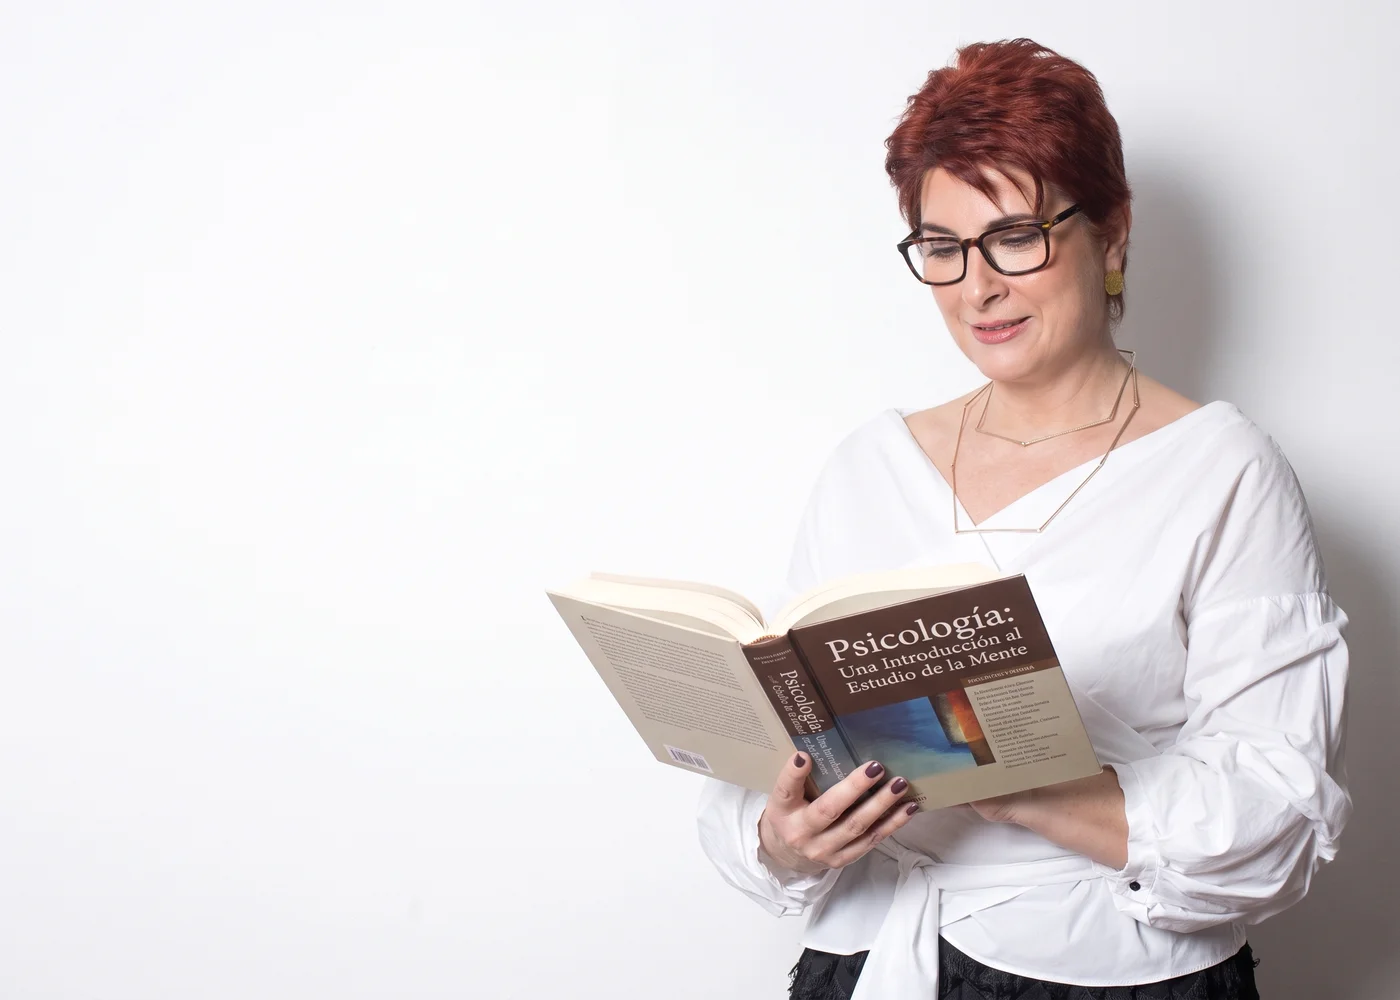
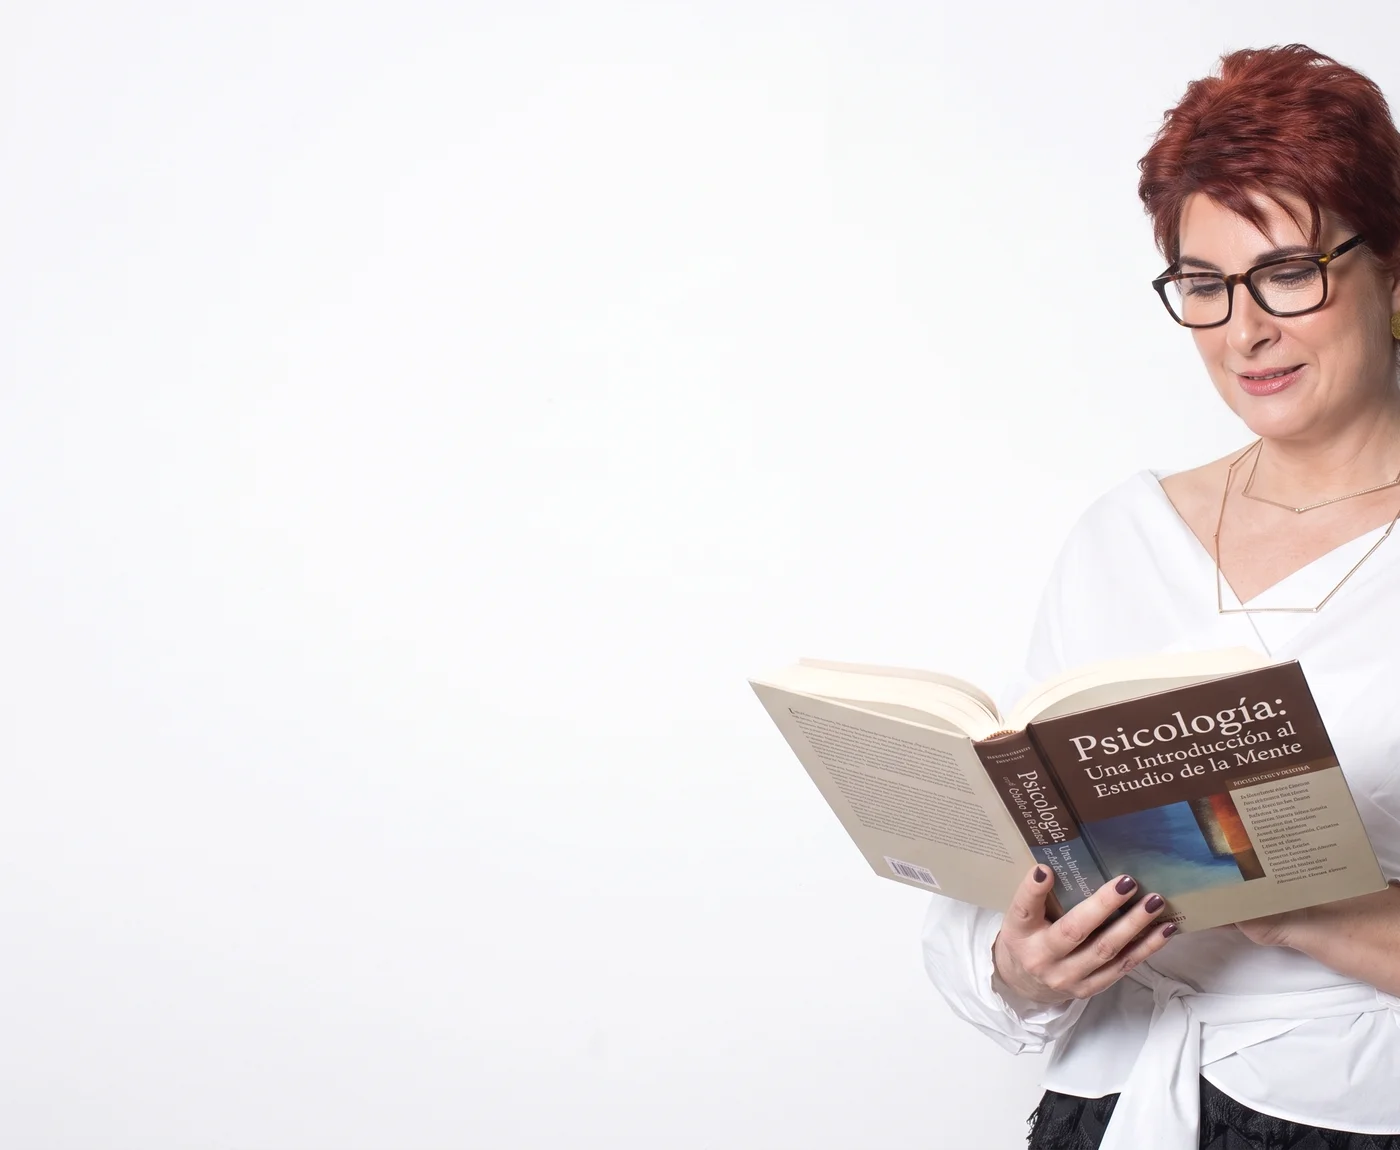
Hero de pantalla completa: foto de Ana ocupa todo el ancho y alto con texto superpuesto en desktop (cabeza siempre visible, recorte solo desde abajo), y foto centrada en la version mobile apilada

diff --git a/src/components/hero.tsx b/src/components/hero.tsx
@@ -6,95 +6,108 @@ import { Button } from "@/components/ui/button";
 import { WhatsAppIcon } from "@/components/icons";
 import { brand, whatsappHref } from "@/lib/site-content";
 
+function HeroCopy({ light = false }: { light?: boolean }) {
+  return (
+    <>
+      <p className="mb-5 text-base font-medium uppercase tracking-[0.18em] text-primary">
+        {brand.pillars.join(" · ")}
+      </p>
+
+      <h1 className="font-heading text-5xl font-medium leading-[1.05] tracking-tight text-foreground sm:text-6xl lg:text-7xl">
+        {brand.heroTitle}
+      </h1>
+
+      <p
+        className={`mt-6 max-w-xl text-xl leading-relaxed sm:text-2xl ${light ? "text-foreground/80" : "text-muted-foreground"}`}
+      >
+        {brand.heroSubtitle}
+      </p>
+
+      <p
+        className={`mt-4 max-w-xl text-lg leading-relaxed ${light ? "text-foreground/70" : "text-muted-foreground"}`}
+      >
+        {brand.heroLead}
+      </p>
+
+      <div className="mt-9 flex flex-col gap-3 sm:flex-row sm:items-center">
+        <Button
+          asChild
+          size="lg"
+          className="rounded-full bg-primary px-7 py-6 text-lg text-primary-foreground transition-[transform,background-color] duration-200 hover:scale-[1.02] hover:bg-primary/90 active:scale-[0.97]"
+        >
+          <a href={whatsappHref} target="_blank" rel="noopener noreferrer">
+            <WhatsAppIcon className="size-5" />
+            Agenda una primera conversación
+          </a>
+        </Button>
+        <Button
+          asChild
+          size="lg"
+          variant="outline"
+          className="rounded-full border-border bg-background/70 px-7 py-6 text-lg backdrop-blur-sm transition-transform duration-200 hover:scale-[1.02] active:scale-[0.97]"
+        >
+          <a href="#servicios">Conoce los servicios</a>
+        </Button>
+      </div>
+    </>
+  );
+}
+
 export function Hero() {
   const reduceMotion = useReducedMotion();
 
   return (
     <section id="top" className="relative overflow-hidden bg-secondary/30">
-      <div
-        aria-hidden
-        className="pointer-events-none absolute inset-0 -z-10"
-        style={{
-          background:
-            "radial-gradient(55% 45% at 88% 15%, color-mix(in oklab, var(--primary) 16%, transparent) 0%, transparent 70%)",
-        }}
-      />
+      {/* Mobile: photo band on top, text below in normal flow */}
+      <div className="lg:hidden">
+        <motion.div
+          initial={reduceMotion ? { opacity: 0 } : { opacity: 0, transform: "scale(1.02)" }}
+          animate={{ opacity: 1, transform: "scale(1)" }}
+          transition={reduceMotion ? { duration: 0.3 } : { type: "spring", bounce: 0, duration: 0.9 }}
+          className="relative h-[52vh] w-full"
+        >
+          <Image
+            src="/images/ana-banner-mobile.webp"
+            alt={`${brand.name}, ${brand.descriptor}`}
+            fill
+            priority
+            sizes="100vw"
+            className="object-cover object-top"
+          />
+        </motion.div>
 
-      {/* Photo — bleeds edge-to-edge, positioned relative to the full section width */}
-      <motion.div
-        initial={
-          reduceMotion ? { opacity: 0 } : { opacity: 0, transform: "translateY(0px) scale(1.02)" }
-        }
-        animate={{ opacity: 1, transform: "translateY(0px) scale(1)" }}
-        transition={
-          reduceMotion
-            ? { duration: 0.3 }
-            : { type: "spring", bounce: 0, duration: 0.9, delay: 0.1 }
-        }
-        className="relative h-[46vh] w-full sm:h-[54vh] lg:absolute lg:inset-y-0 lg:right-0 lg:h-full lg:w-[54%]"
-      >
-        <Image
-          src="/images/ana-banner-mobile.webp"
-          alt={`${brand.name}, ${brand.descriptor}`}
-          fill
-          priority
-          sizes="100vw"
-          className="object-cover object-center lg:hidden"
-        />
-        <Image
-          src="/images/ana-banner-desktop.webp"
-          alt={`${brand.name}, ${brand.descriptor}`}
-          fill
-          priority
-          sizes="54vw"
-          className="hidden object-cover object-center lg:block"
-        />
-      </motion.div>
-
-      <div className="relative mx-auto min-h-[560px] max-w-[1800px] lg:min-h-[760px]">
         <motion.div
           initial={reduceMotion ? { opacity: 0 } : { opacity: 0, transform: "translateY(22px)" }}
           animate={reduceMotion ? { opacity: 1 } : { opacity: 1, transform: "translateY(0px)" }}
           transition={reduceMotion ? { duration: 0.3 } : { type: "spring", bounce: 0, duration: 0.8 }}
-          className="relative z-10 px-6 pb-16 pt-10 sm:px-12 lg:w-[52%] lg:px-[100px] lg:py-24"
+          className="px-6 pb-16 pt-10 sm:px-12"
         >
-          <p className="mb-5 text-base font-medium uppercase tracking-[0.18em] text-primary">
-            {brand.pillars.join(" · ")}
-          </p>
-
-          <h1 className="font-heading text-5xl font-medium leading-[1.05] tracking-tight text-foreground sm:text-6xl lg:text-7xl">
-            {brand.heroTitle}
-          </h1>
-
-          <p className="mt-6 max-w-xl text-xl leading-relaxed text-muted-foreground sm:text-2xl">
-            {brand.heroSubtitle}
-          </p>
-
-          <p className="mt-4 max-w-xl text-lg leading-relaxed text-muted-foreground">
-            {brand.heroLead}
-          </p>
-
-          <div className="mt-9 flex flex-col gap-3 sm:flex-row sm:items-center">
-            <Button
-              asChild
-              size="lg"
-              className="rounded-full bg-primary px-7 py-6 text-lg text-primary-foreground transition-[transform,background-color] duration-200 hover:scale-[1.02] hover:bg-primary/90 active:scale-[0.97]"
-            >
-              <a href={whatsappHref} target="_blank" rel="noopener noreferrer">
-                <WhatsAppIcon className="size-5" />
-                Agenda una primera conversación
-              </a>
-            </Button>
-            <Button
-              asChild
-              size="lg"
-              variant="outline"
-              className="rounded-full border-border px-7 py-6 text-lg transition-transform duration-200 hover:scale-[1.02] active:scale-[0.97]"
-            >
-              <a href="#servicios">Conoce los servicios</a>
-            </Button>
-          </div>
+          <HeroCopy />
         </motion.div>
+      </div>
+
+      {/* Desktop: full-bleed photo, text overlaid on top */}
+      <div className="relative hidden min-h-[85vh] w-full lg:block">
+        <Image
+          src="/images/ana-banner-fullbleed.webp"
+          alt={`${brand.name}, ${brand.descriptor}`}
+          fill
+          priority
+          sizes="100vw"
+          className="object-cover object-top"
+        />
+        <div className="absolute inset-0 bg-gradient-to-r from-background via-background/75 to-transparent" />
+
+        <div className="relative mx-auto flex h-full min-h-[85vh] max-w-[1800px] items-center">
+          <motion.div
+            initial={reduceMotion ? { opacity: 0 } : { opacity: 0, transform: "translateY(22px)" }}
+            animate={reduceMotion ? { opacity: 1 } : { opacity: 1, transform: "translateY(0px)" }}
+            transition={reduceMotion ? { duration: 0.3 } : { type: "spring", bounce: 0, duration: 0.8 }}
+            className="max-w-2xl px-6 py-24 lg:px-[100px]"
+          >
+            <HeroCopy light />
+          </motion.div>
+        </div>
       </div>
     </section>
   );
